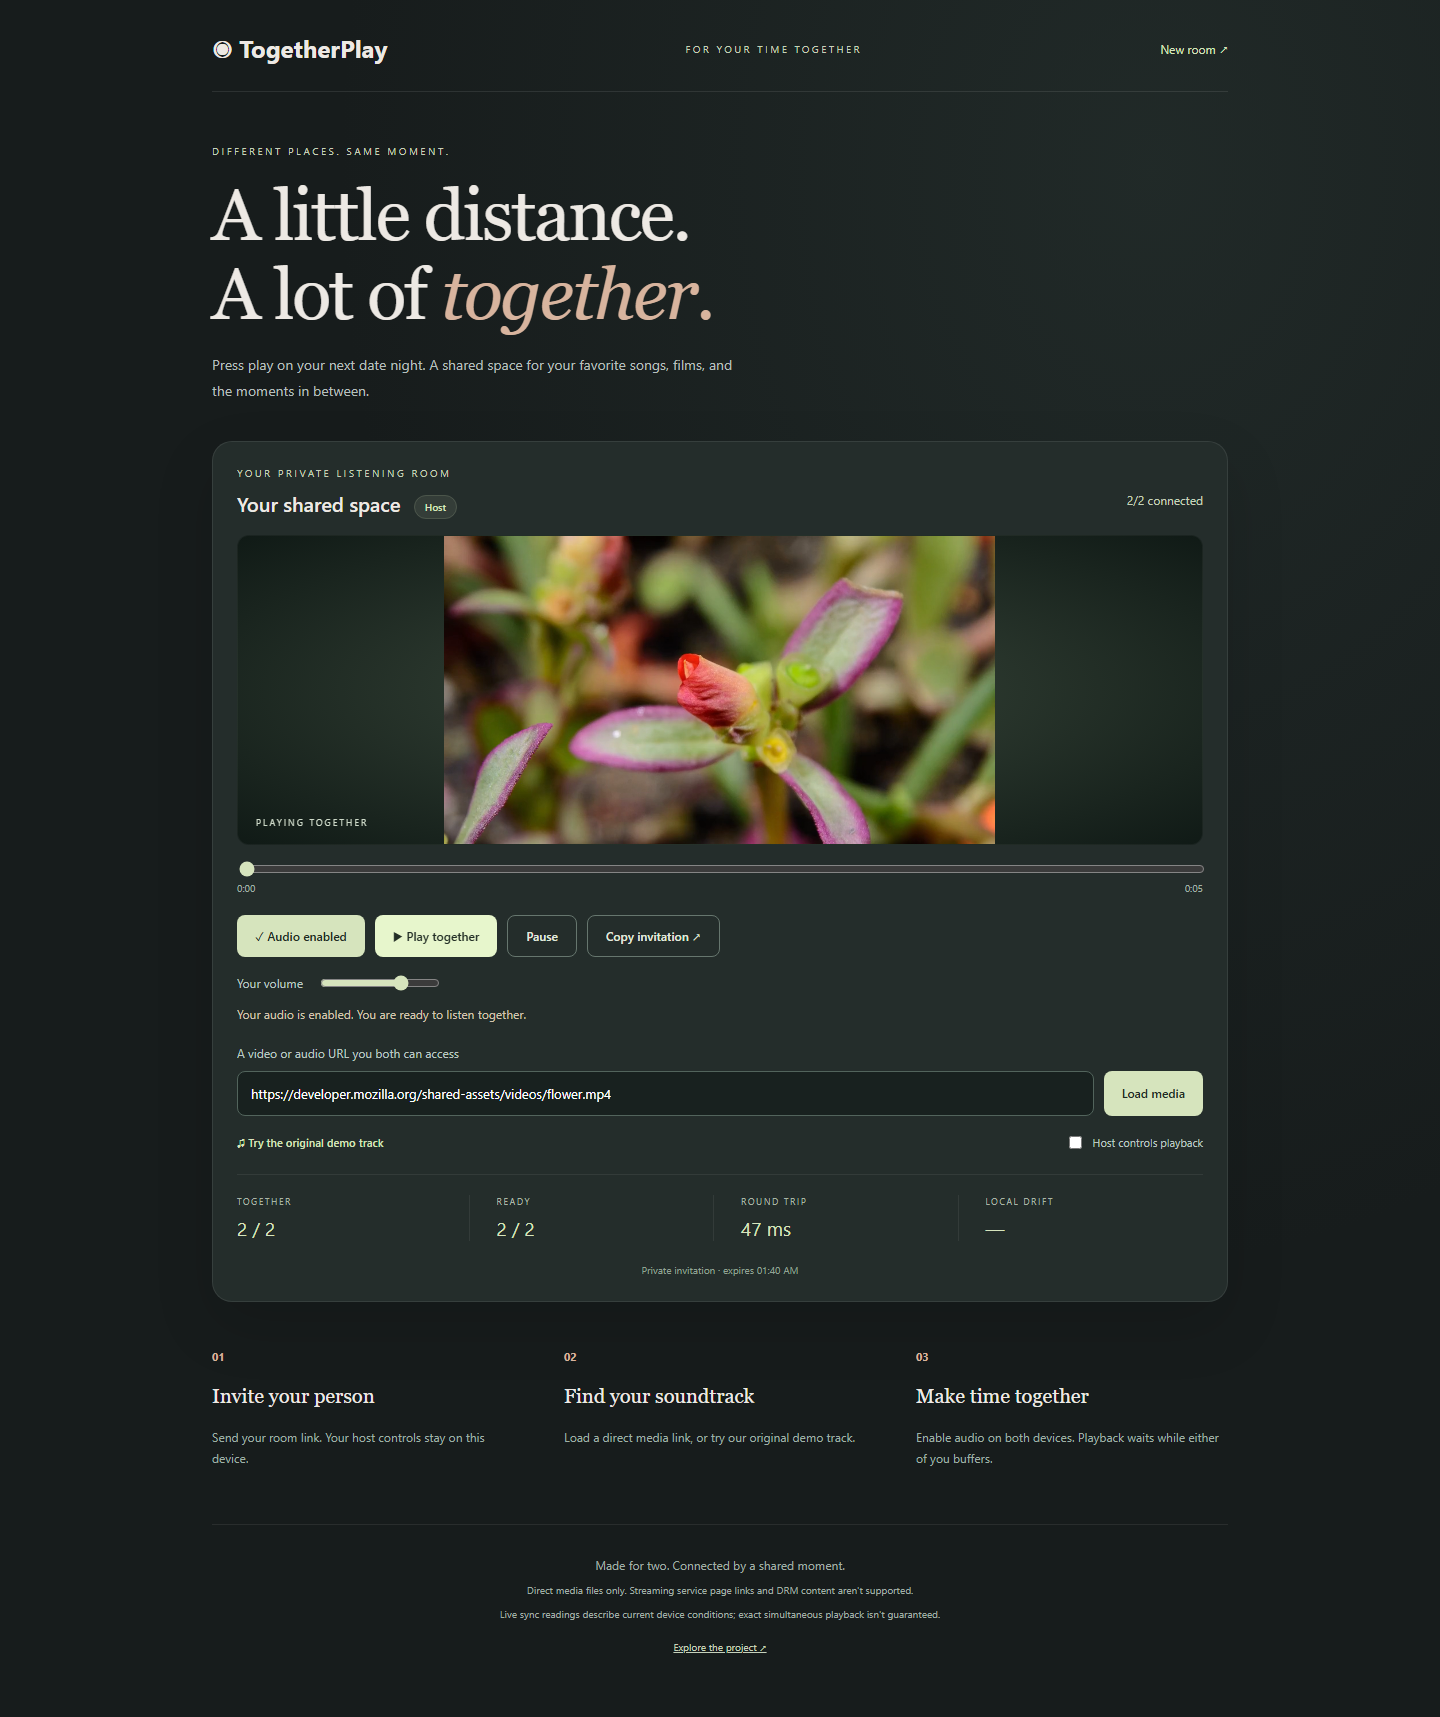
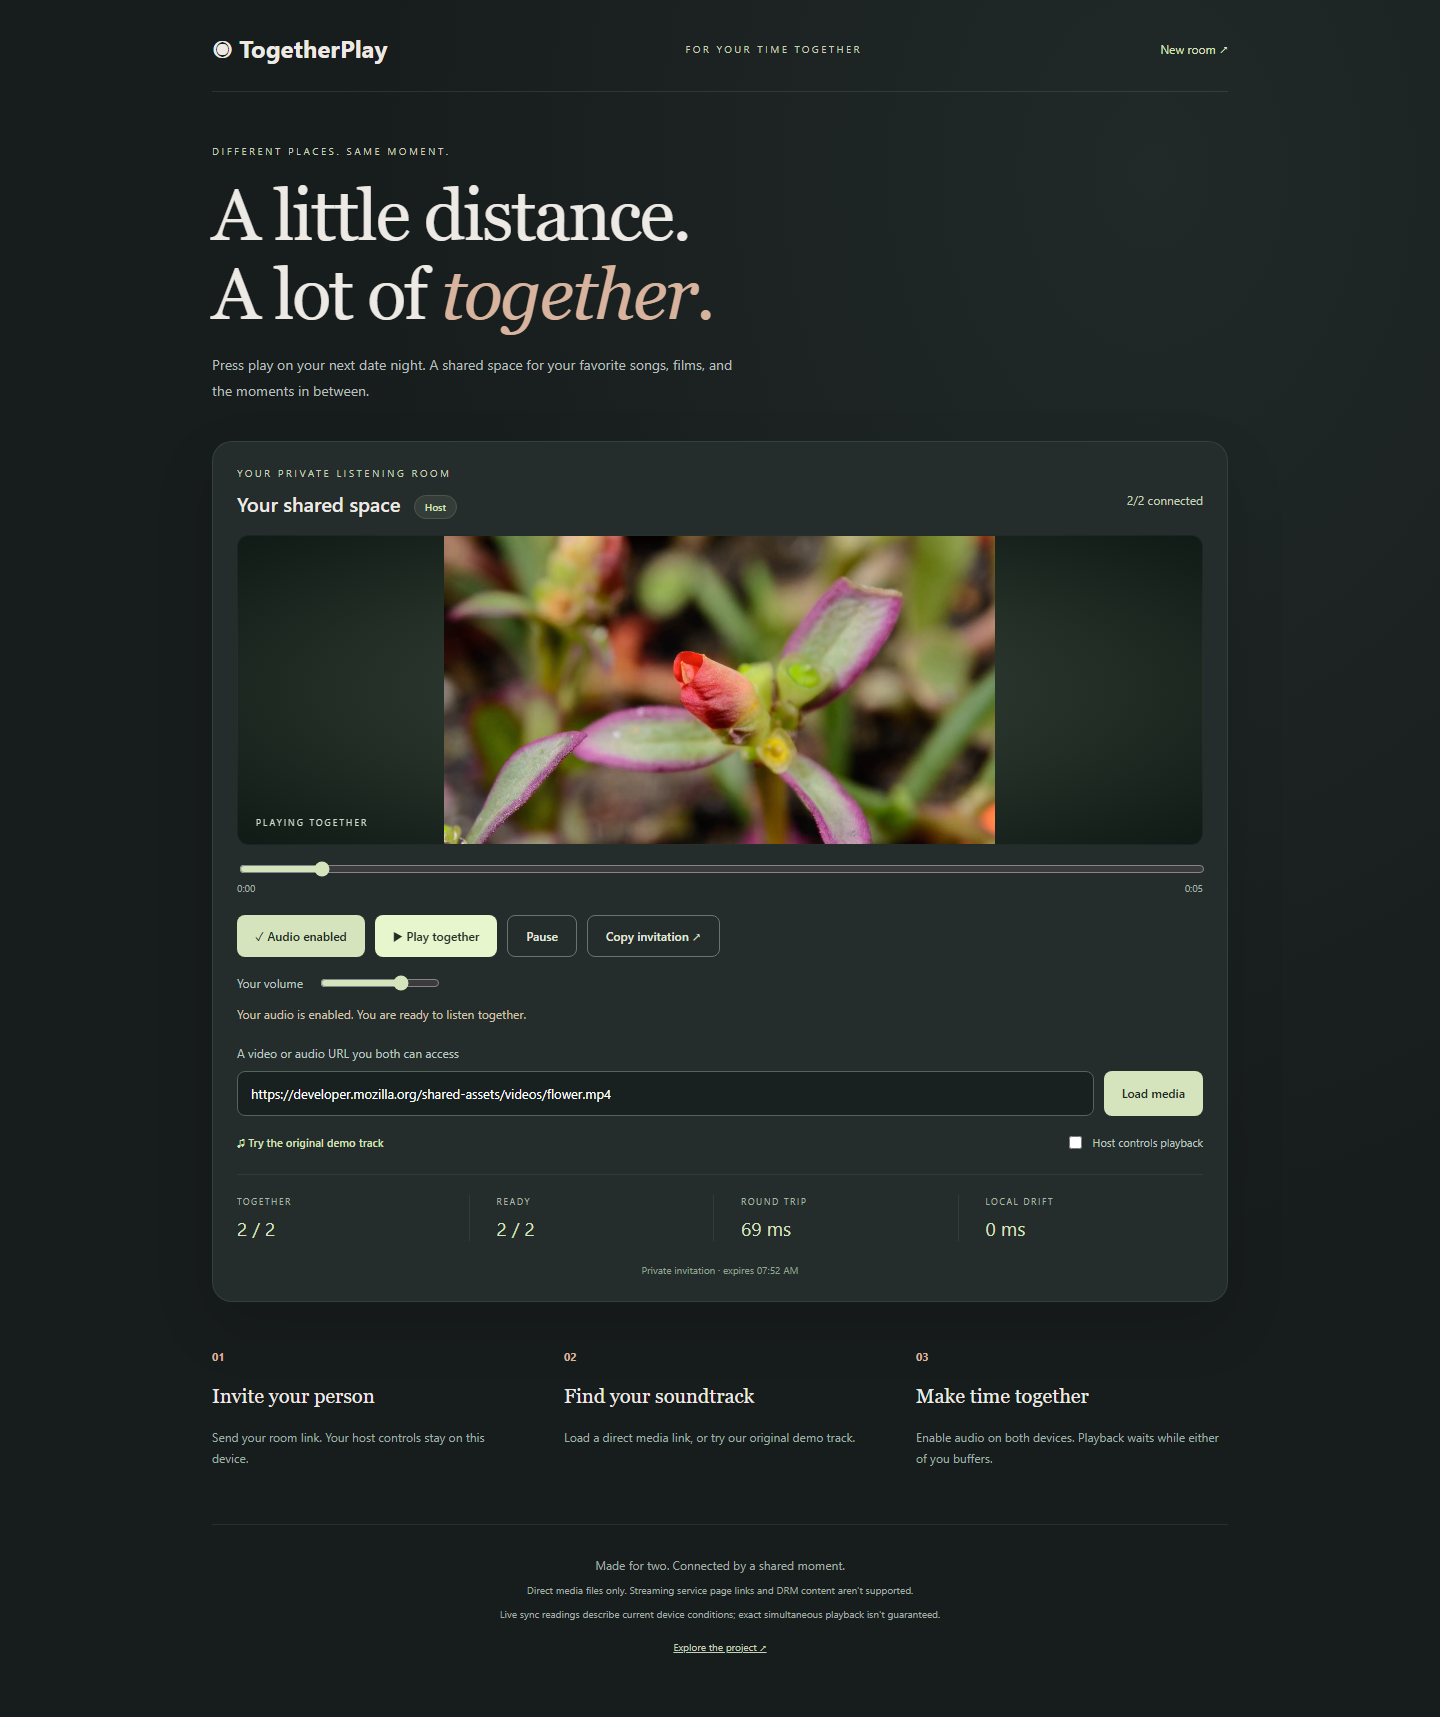
Verify live production flow and refresh seven README product showcases

diff --git a/e2e/product.spec.js b/e2e/product.spec.js
@@ -1,5 +1,5 @@
 import { test, expect } from "@playwright/test";
-import { mkdirSync } from "node:fs";
+import { mkdirSync, writeFileSync } from "node:fs";
 test("two-person listening, host controls, shared seeking, recovery and mobile showcase", async ({
   browser,
   baseURL,
@@ -14,9 +14,22 @@ test("two-person listening, host controls, shared seeking, recovery and mobile s
   const host = await contextA.newPage(),
     guest = await contextB.newPage();
   const errors = [];
+  const verification = {
+    target: baseURL,
+    verifiedAt: new Date().toISOString(),
+    browser: "Chromium",
+    checks: [],
+  };
   host.on("pageerror", (e) => errors.push(e.message));
   guest.on("pageerror", (e) => errors.push(e.message));
   try {
+    const health = await host.request.get(`${baseURL}/healthz`);
+    expect(health.ok()).toBe(true);
+    const storage = await health.json();
+    expect(storage.status).toBe("ok");
+    if (process.env.PRODUCTION_VERIFY) expect(storage.storage).toBe("postgres");
+    verification.storage = storage.storage;
+    verification.checks.push("HTTP health and durable production storage");
     await host.goto(baseURL);
     await expect(host.locator("#role")).toHaveText("Host");
     await host.screenshot({
@@ -26,6 +39,7 @@ test("two-person listening, host controls, shared seeking, recovery and mobile s
     await guest.goto(host.url());
     await expect(guest.locator("#role")).toHaveText("Partner");
     await expect(host.locator("#status")).toHaveText("2/2 connected");
+    verification.checks.push("Host creation and isolated partner join");
     await host
       .getByRole("button", { name: "Try the original demo track" })
       .click();
@@ -37,6 +51,12 @@ test("two-person listening, host controls, shared seeking, recovery and mobile s
       .click();
     await host.getByRole("button", { name: "Play together" }).click();
     await expect(host.locator("#playback")).toHaveText("WAITING FOR EVERYONE");
+    await expect
+      .poll(() => host.locator("video").evaluate((v) => v.paused))
+      .toBe(true);
+    verification.checks.push(
+      "Playback waits for both participants to enable audio",
+    );
     await host.screenshot({
       path: "docs/showcase/02-coordinated-readiness.png",
       fullPage: true,
@@ -49,6 +69,21 @@ test("two-person listening, host controls, shared seeking, recovery and mobile s
     await expect
       .poll(() => guest.locator("video").evaluate((v) => v.currentTime))
       .toBeGreaterThan(0.3);
+    await expect
+      .poll(() => host.locator("video").evaluate((v) => v.paused))
+      .toBe(false);
+    const [hostTime, guestTime] = await Promise.all([
+      host.locator("video").evaluate((v) => v.currentTime),
+      guest.locator("video").evaluate((v) => v.currentTime),
+    ]);
+    verification.observedPlaybackDifferenceMs = Math.round(
+      Math.abs(hostTime - guestTime) * 1000,
+    );
+    verification.measurementNote =
+      "One pair of asynchronous browser readings on the same test machine; not an internet synchronization benchmark.";
+    verification.checks.push(
+      "Audio media advances in both browsers; host-only guest controls disabled",
+    );
     await expect(guest.locator("#play")).toBeDisabled();
     await expect
       .poll(() => host.locator("#latency").textContent())
@@ -67,13 +102,27 @@ test("two-person listening, host controls, shared seeking, recovery and mobile s
       .toBeGreaterThanOrEqual(11.5);
     await host.getByRole("button", { name: "Pause", exact: true }).click();
     await expect(guest.locator("#playback")).toHaveText("PAUSED TOGETHER");
+    await expect
+      .poll(() => guest.locator("video").evaluate((v) => v.paused))
+      .toBe(true);
+    verification.checks.push("Shared seeking and actual paused media state");
     await host.locator("#hostOnly").uncheck();
     await expect(guest.locator("#play")).toBeEnabled();
     await guest.getByRole("button", { name: "Play together" }).click();
     await expect(host.locator("#playback")).toHaveText("PLAYING TOGETHER");
+    verification.checks.push(
+      "Host unlocks playback; partner successfully starts playback",
+    );
     await host.reload();
     await expect(host.locator("#role")).toHaveText("Host");
     await expect(host.locator("#source")).toHaveValue("/demo.wav");
+    await guest.reload();
+    await expect(guest.locator("#role")).toHaveText("Partner");
+    await expect(guest.locator("#source")).toHaveValue("/demo.wav");
+    await expect(host.locator("#status")).toHaveText("2/2 connected");
+    verification.checks.push(
+      "Host and partner reload preserve roles, media, and room membership",
+    );
     await host.setViewportSize({ width: 390, height: 844 });
     await host.screenshot({
       path: "docs/showcase/05-mobile-room.png",
@@ -84,6 +133,7 @@ test("two-person listening, host controls, shared seeking, recovery and mobile s
         () => document.documentElement.scrollWidth <= innerWidth,
       ),
     ).toBe(true);
+    verification.checks.push("390px mobile layout has no horizontal overflow");
     if (process.env.LIVE_VIDEO_URL) {
       await host.setViewportSize({ width: 1440, height: 1100 });
       await host.locator("#source").fill(process.env.LIVE_VIDEO_URL);
@@ -96,14 +146,51 @@ test("two-person listening, host controls, shared seeking, recovery and mobile s
       await host
         .getByRole("button", { name: "Enable my audio", exact: true })
         .click();
+      await guest
+        .getByRole("button", { name: "Enable my audio", exact: true })
+        .click();
       await host.getByRole("button", { name: "Play together" }).click();
       await expect(guest.locator("#playback")).toHaveText("PLAYING TOGETHER");
+      await expect
+        .poll(() => guest.locator("video").evaluate((v) => v.currentTime))
+        .toBeGreaterThan(0.1);
+      verification.checks.push(
+        "External HTTPS video decodes and advances in both-member room",
+      );
       await host.screenshot({
         path: "docs/showcase/06-video-playback.png",
         fullPage: true,
       });
     }
+    const thirdContext = await browser.newContext({
+      viewport: { width: 1440, height: 1100 },
+    });
+    try {
+      const third = await thirdContext.newPage();
+      await third.goto(host.url());
+      await expect(third.locator("#message")).toHaveText(
+        "This room already has two people.",
+      );
+      await expect(third.locator("#status")).toHaveText("Room unavailable");
+      await third.screenshot({
+        path: "docs/showcase/07-room-capacity.png",
+        fullPage: true,
+      });
+      verification.checks.push(
+        "A third browser is denied entry to the two-person room",
+      );
+    } finally {
+      await thirdContext.close();
+    }
     expect(errors).toEqual([]);
+    verification.checks.push("No uncaught browser JavaScript errors");
+    verification.status = "passed";
+    if (process.env.PRODUCTION_VERIFY) {
+      writeFileSync(
+        "docs/production-verification.json",
+        JSON.stringify(verification, null, 2) + "\n",
+      );
+    }
   } finally {
     await contextA.close();
     await contextB.close();

diff --git a/README.md b/README.md
@@ -10,6 +10,8 @@
 
 Real browser captures of the running product, generated during end-to-end verification. Telemetry readings are individual observations, not synchronization benchmarks. Test room invitations expire after six hours.
 
+**Production verified October 29, 2026:** the gallery below was refreshed from the public production URL using isolated Chromium sessions. [Inspect the timestamped test evidence](docs/production-verification.json).
+
 ### A shared space, made for two
 
 ![TogetherPlay desktop room](docs/showcase/01-desktop-room.png)
@@ -39,6 +41,29 @@ Host-only controls are enforced by the server. Partners can enable audio and set
 ![Shared video playback](docs/showcase/06-video-playback.png)
 
 The video showcase uses the flower sample referenced in [MDN's video documentation](https://developer.mozilla.org/en-US/docs/Web/HTML/Reference/Elements/video). It loads directly from MDN; TogetherPlay does not redistribute that video. The built-in audio track is an original synthesized melody with no third-party samples, reproducible with `npm run demo:generate`.
+
+### A space reserved for two
+
+A third independent browser receives an explicit capacity message and cannot enter the room.
+
+![Two-person room capacity enforced in a third browser](docs/showcase/07-room-capacity.png)
+
+## Latest production verification
+
+The October 29 run targeted **https://togetherplay-nine.vercel.app**, with the health endpoint confirming PostgreSQL storage. It completed all eleven recorded checks with no uncaught browser JavaScript errors.
+
+| Flow                         | Verified result                                                                                          |
+| ---------------------------- | -------------------------------------------------------------------------------------------------------- |
+| Room creation and invitation | Creator is host; a separate browser joins as partner.                                                    |
+| Readiness barrier            | Host media stays paused until the partner enables audio.                                                 |
+| Actual playback              | Audio advances in both browser sessions; external HTTPS video decodes and advances.                      |
+| Shared transport             | Seeking propagates; pause stops the partner's media element.                                             |
+| Permissions                  | Partner playback controls are disabled until the host unlocks them; the partner can then start playback. |
+| Recovery                     | Both browsers reload into their existing roles with the same media and room membership.                  |
+| Mobile                       | The 390px layout has no horizontal overflow.                                                             |
+| Capacity                     | A third independent browser is denied entry.                                                             |
+
+The [machine-readable evidence](docs/production-verification.json) records the UTC timestamp, target, storage mode, checked behaviors, and one observed playback difference. Both browsers ran on the same test machine over the public HTTPS/WSS service. This verifies the live product flow; it does not establish long-distance timing percentiles, real-phone compatibility, unclean-network recovery, or sustained production load capacity.
 
 ## Try it
 
@@ -152,6 +177,8 @@ npm run test:e2e
 ```
 
 Set `BASE_URL` to test a deployment. Optional `LIVE_VIDEO_URL` enables the additional video test/showcase. The standard browser suite uses only the original local audio and needs no external media origin. Browser tests intentionally regenerate screenshots in `docs/showcase/`.
+
+Set `PRODUCTION_VERIFY=1` when running against production to require PostgreSQL health and update `docs/production-verification.json`. Ordinary local/CI runs do not replace the recorded production evidence. The suite uses separate host, partner, and capacity-check browser contexts and includes a reload of both participating sessions.
 
 Coverage includes timeline math, URL validation, readiness pause/resume, permissions, stale revisions, capacity, expired sessions, foreign Origin rejection, separate-server state propagation, host recovery, actual media advancement, seeking, and mobile overflow. CI installs from the lockfile, audits production dependencies, runs backend tests, and runs Chromium end-to-end tests.
 
